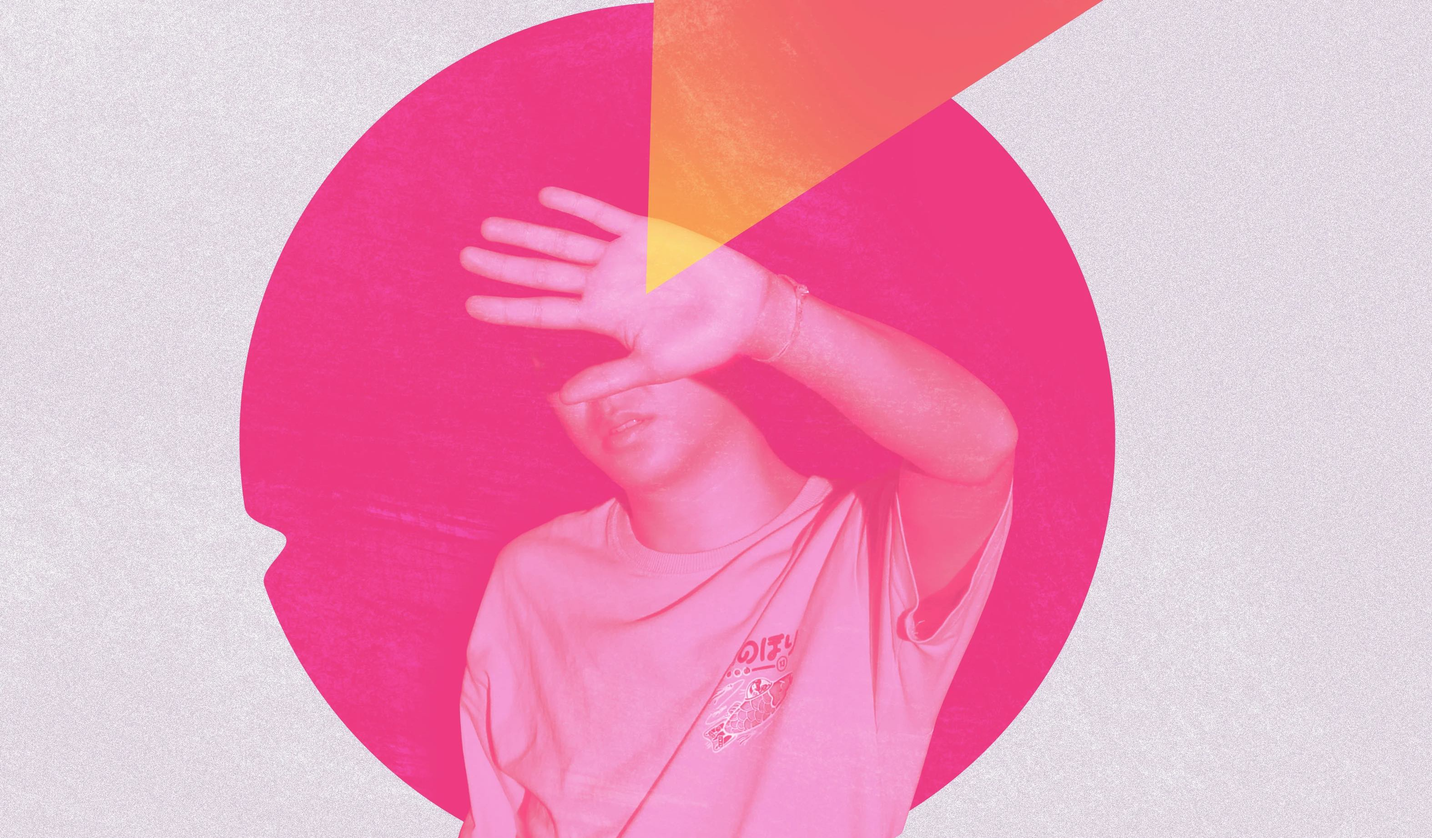
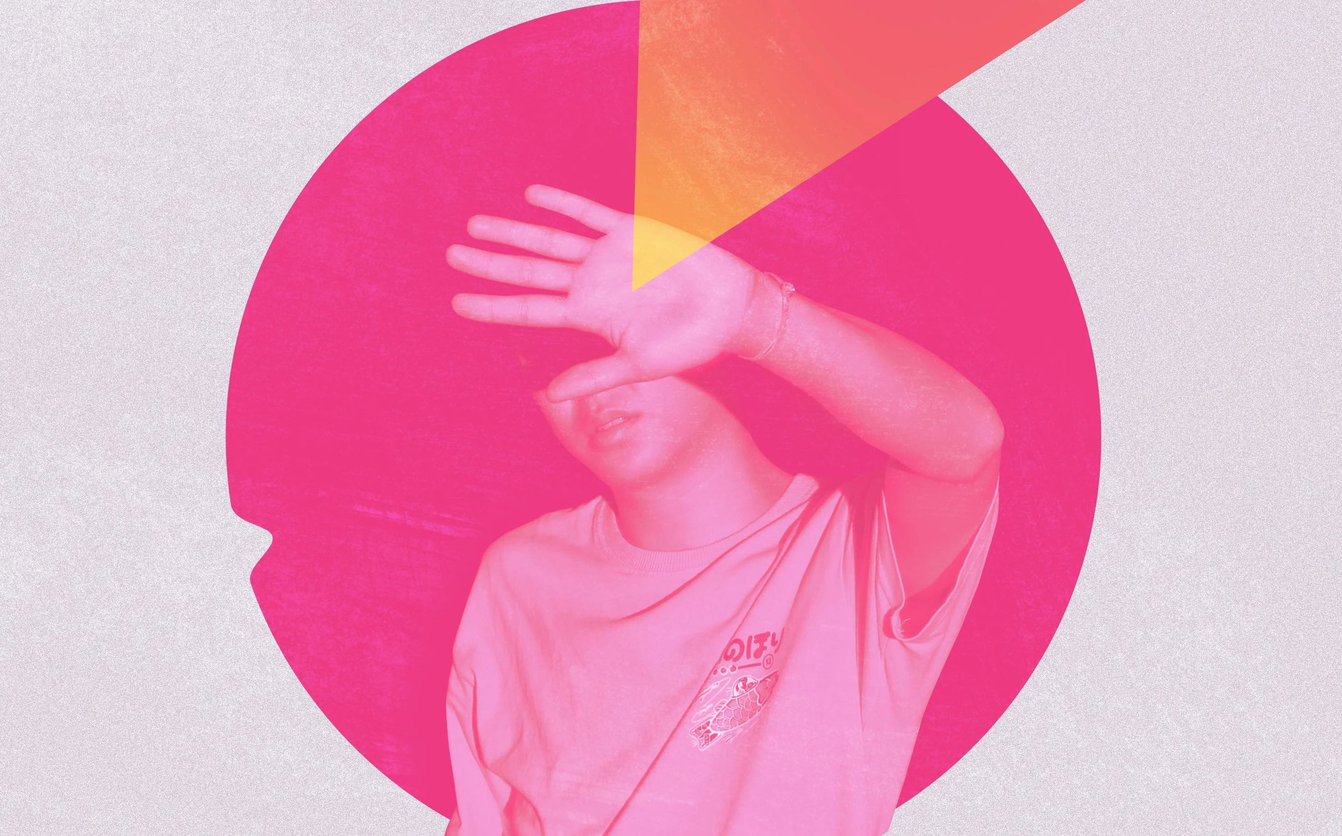
site

diff --git a/index.html b/index.html
@@ -5,6 +5,7 @@
     <meta name="viewport" content="width=device-width, initial-scale=1.0">
     <title>Document</title>
     <link rel="stylesheet" href="estilos/style.css">
+    <link rel="stylesheet" href="estilos/mediaqueries.css">
 
 
 </head>
@@ -48,8 +49,8 @@
         <section class="pag3">
             <div class="foto2">
                 <blockquote>
-                    <p class="citacao">"Como é bom cantar. <br></p>
-                    <p class="citacao">Trocar toques, sons <br></p>
+                    <p id="comoebom" class="citacao">"Como é bom cantar.</p>
+                    <p class="citacao">Trocar toques, sons</p>
                     <p class="citacao">que ecoam no <span class="sol">Sol</span>."
                     </p>
                 </blockquote>
@@ -57,16 +58,17 @@
         </section>
         <section class="section_sobre">
             <h1 class="titulo_sobre">Sobre</h1>
-                <p class="texto_sobre">Nakao é um talentoso músico formado pela Universidade Estadual de Londrina. Em 2020, lançou seu primeiro álbum de estúdio, "Smothered", uma fusão de pop, folk, MPB e blues. Com canções em inglês, o álbum oferece um som introspectivo e intimista, refletindo suas vivências na juventude através de letras e melodias profundas.</p>
-                <p class="texto_sobre">Além de sua carreira solo, Nakao é intérprete no duo de voz e violão "Sincopaduo" com Gustavo Gorla. Juntos, eles exploram a canção brasileira com muita musicalidade e versatilidade. Nakao também é conhecido por suas apresentações temáticas, como "Nakao canta Djavan", "Viva Elis" e "Samba da Madrugada".</p>
-                <p class="texto_sobre">Com uma formação sólida e uma carreira diversificada, Nakao se destaca pela sua capacidade de transitar entre diferentes estilos musicais, criando conexões significativas com seu público. Seu trabalho é uma exploração contínua dos limites da música, oferecendo uma experiência única e envolvente.</p>
+            <div class="container_texto_sobre">
+                <p class="texto_sobre">Nakao é um talentoso músico formado pela Universidade Estadual de Londrina. Em 2020, lançou seu primeiro álbum de estúdio, "Smothered", uma fusão de pop, folk, MPB e blues. Com canções em inglês, o álbum oferece um som introspectivo e intimista, refletindo suas vivências na juventude através de letras e melodias profundas.
+                    <p class="texto_sobre">Além de sua carreira solo, Nakao é intérprete no duo de voz e violão "Sincopaduo" com Gustavo Gorla. Juntos, eles exploram a canção brasileira com muita musicalidade e versatilidade. Nakao também é conhecido por suas apresentações temáticas, como "Nakao canta Djavan", "Viva Elis" e "Samba da Madrugada".</p><p class="texto_sobre">Com uma formação sólida e uma carreira diversificada, Nakao se destaca pela sua capacidade de transitar entre diferentes estilos musicais, criando conexões significativas com seu público. Seu trabalho é uma exploração contínua dos limites da música, oferecendo uma experiência única e envolvente.</p>
+            </div>
         </section>
         <section class="section_contato">
             <div class="foto3">
                 <h1 class="titulo_contato">Contato</h1>
                 <div class="informacoes_contato">
-                    <address class="citacao">Email: joao_nakao@hotmail.com <br></address>
-                    <p class="citacao">Telefone: (43) 999591356 </p>
+                    <address class="contato">Email: joao_nakao@hotmail.com <br></address>
+                    <p class="contato">Telefone: (43) 999591356 </p>
                 </div>
             </div>    
         </section>

diff --git a/estilos/mediaqueries.css b/estilos/mediaqueries.css
@@ -1,0 +1,73 @@
+@charset "UTF-8";
+
+@media screen and (min-width:600px){
+    .foto1{
+        background-image: url(../imagens/foto1-vertical.JPEG);
+    }  
+
+    .foto2{
+        background-image: url(../imagens/foto2-vertical.jpg);
+    }
+
+    blockquote{
+        font-size: 3em;
+        line-height: 5rem;
+        padding: 1.5rem 3rem;
+    }
+}
+
+@media screen and (min-width:930px) {
+
+
+    blockquote{
+        font-size: 4em;
+        line-height: 6rem;
+        padding: 1.5rem 3rem;
+    }
+
+    .section_sobre{
+        background-color: #fbd68a;
+        padding: 80px 300px;
+    }
+
+    .titulo_contato{
+        display: inline;
+        background-color: #fcdaa8e9;
+        line-height: 9rem;
+    }
+
+}
+
+@media screen and (min-width:1200px){
+    .foto1{
+        background-image: url(../imagens/foto1_vertical2.JPEG);  
+    }
+
+    .foto2{
+        background-image: url(../imagens/foto2_vertical2.JPEG);
+    }
+
+    .foto3{
+        background-image: url(../imagens/página\ inicial.jpg);
+    }
+
+    blockquote{
+        height: 20vh;
+        display: flex;
+        justify-content: center;
+        align-items: center;
+    }
+
+    .citacao{
+        font-size: 0.6em; 
+        padding: 0px 1rem;
+        display: block;
+    }
+
+    .texto_sobre{
+        text-align: justify;
+    }
+
+
+
+}

diff --git a/estilos/style.css b/estilos/style.css
@@ -30,10 +30,8 @@ grandes telas: acima de 1200px
 }
 
 body, html{
-    max-width: 700px;
     font-family: "Fraunces", serif;
     color: #d85059;
-
 }
 
 #nome{
@@ -69,7 +67,7 @@ header.rolagem #musica:hover, #sobre:hover, #contato:hover{
 
 header.rolagem{
     background-color: rgb(251, 214, 138);
-    transition: 1s;
+    transition: 0.5s;
 }
 
 nav{
@@ -120,8 +118,7 @@ a{
 }
 
 .video{
-    
-    height: 230px;
+    height: 40vh;
     position: relative;
     overflow: hidden;
 }
@@ -129,7 +126,8 @@ a{
 iframe{
     position: absolute;
     overflow: hidden;
-    width: 95%;
+    height: 100%;
+    width: 90%;
     top: 50%;
     left: 50%;
     transform: translate(-50%, -50%);
@@ -172,11 +170,18 @@ blockquote{
 .section_sobre{
     background-color: #fbd68a;
     padding: 40px;
+    display: flex;
+    flex-flow: column;
+    justify-content: center;
 }
 
 .titulo_sobre{
     margin-bottom: 30px;
     padding: 0;
+}
+
+.container_texto_sobre{
+    flex: auto;
 }
 
 .texto_sobre{
@@ -207,28 +212,15 @@ blockquote{
     line-height: 2rem;
 }
 
+.contato{
+    background-color: #fbd68a;
+    display: inline;
+}
+
 footer{
     text-align: center;
     background-color: #fbd68a;
 }
-
-
-
-
-
-
-
-
-
-
-
-
-
-
-
-
-
-
 
 .spotify {
     display: inline-block;
